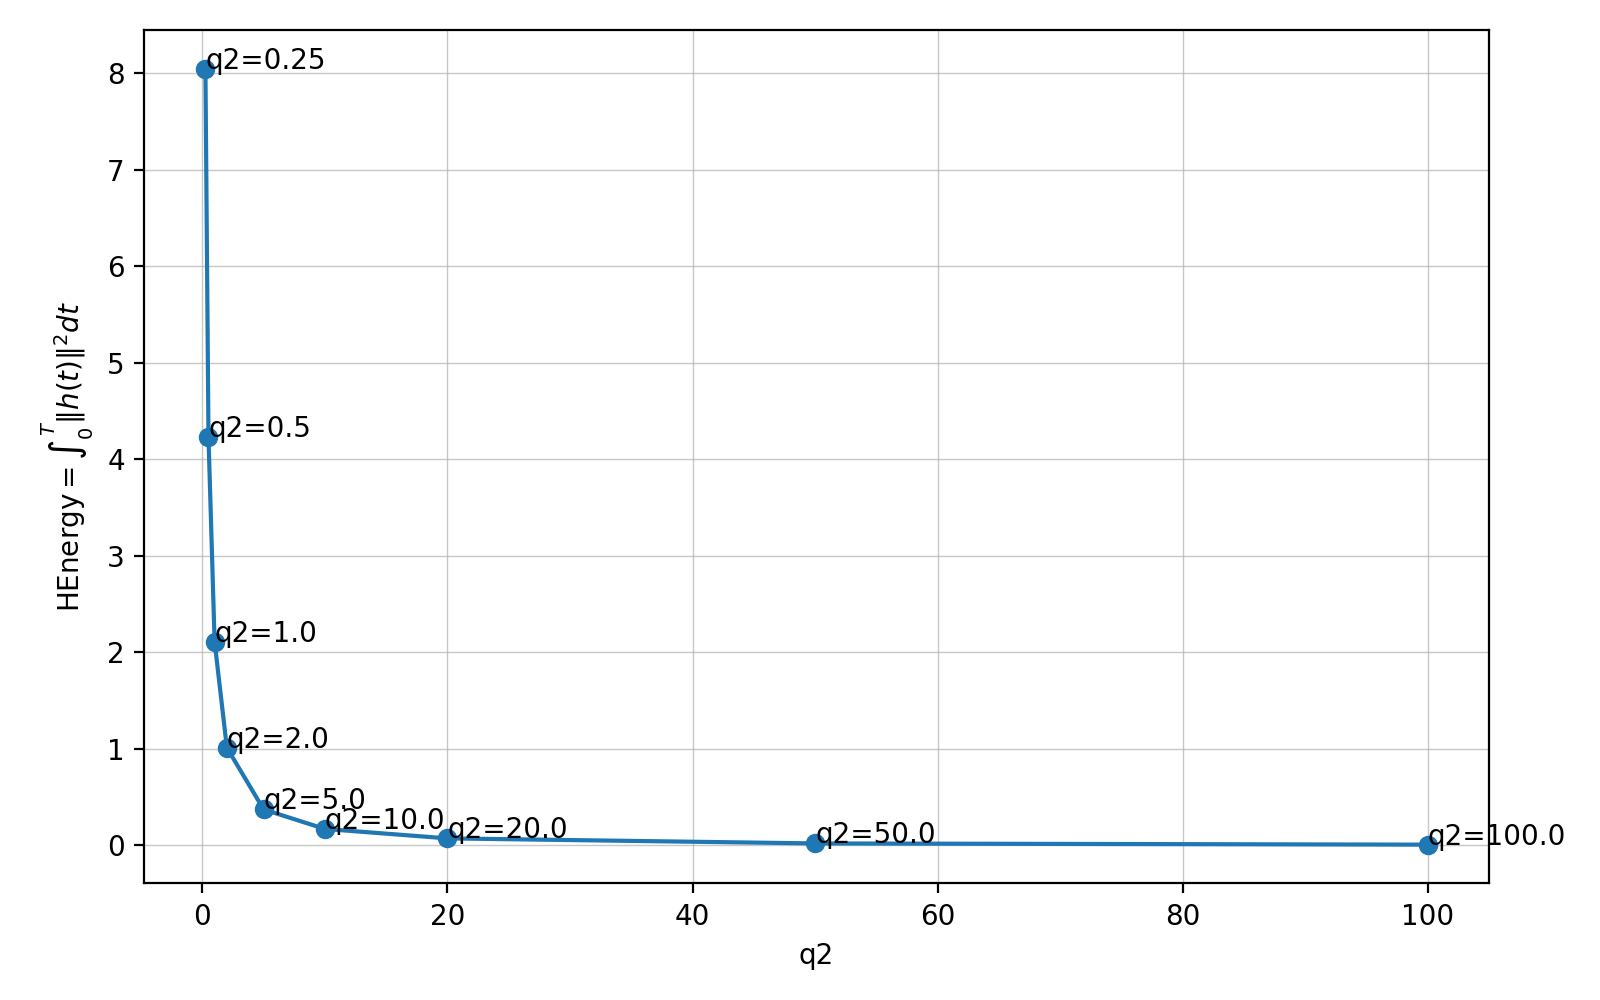
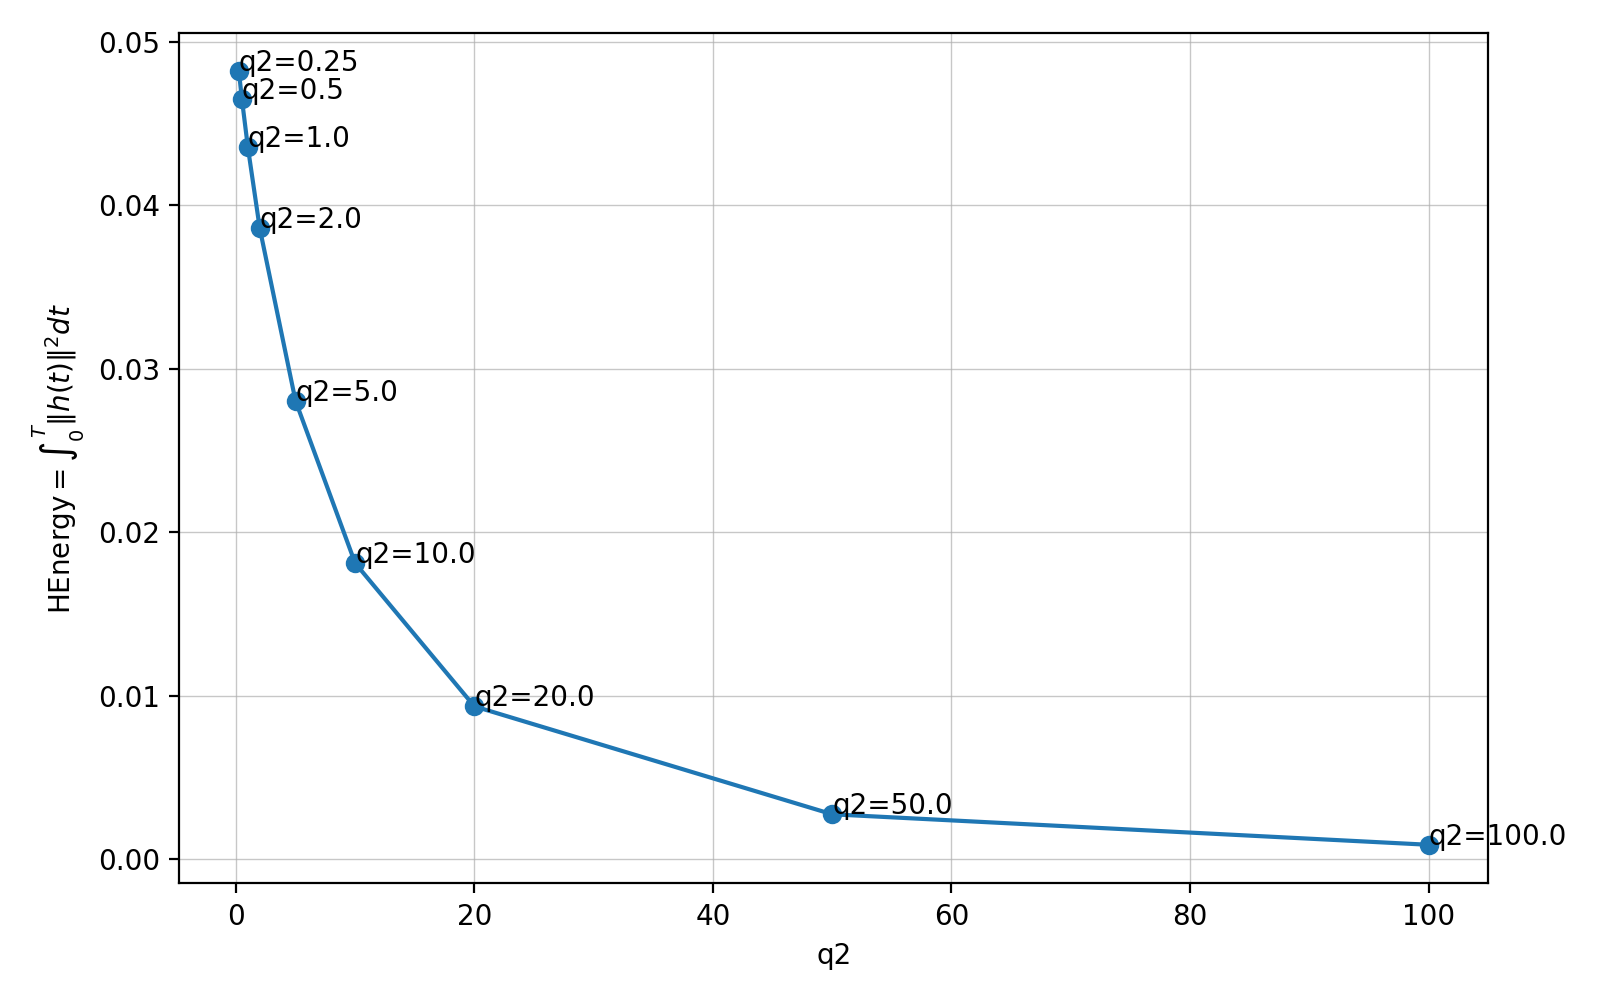
Update for readme

diff --git a/README.md b/README.md
@@ -2,7 +2,7 @@
 
 **But.** 
 
-For given $A\in\mathcal{M}_{n}(\mathbb{R})$, $G_2\in\mathcal{M}_{n}(\mathbb{R})$, $C\in\mathcal{M}_{n}(\mathbb{R})$, and $q_1,q_2>0$ considered ponderations, we want to construct the optimal pair
+For given $A\in\mathcal{M}_n(\mathbb{R})$, $G_2\in\mathcal{M}_n(\mathbb{R})$, $C\in\mathcal{M}_n(\mathbb{R})$, and $q_1,q_2>0$ considered ponderation weights, we want to construct the optimal pair
 ```math
 \begin{aligned}
 h^\star(t) &= -\tfrac{1}{q_2} G_2^\top p(t),\\
@@ -12,7 +12,7 @@ z(0) &= -\tfrac{1}{q_1} p(0)
 where $(z,p)$ is solution of the optimality system  given by the TPBVP:
 ```math
 \begin{aligned}
-z'(t) &= A z(t) + G h^\star(t) = A z(t) - \tfrac{1}{q_2} G G^\top p(t), \quad z(0) = -\tfrac{1}{q_1} s,\\
+z'(t) &= A z(t) + G_2 h^\star(t) = A z(t) - \tfrac{1}{q_2} G_2 G_2^\top p(t), \quad z(0) = -\tfrac{1}{q_1} s,\\
 p'(t) &= -A^\top p(t) - C^\top\!\big(C z(t) - y^{\mathrm m}(t)\big), \quad p(T)=0,
 \end{aligned}
 ```
@@ -22,36 +22,36 @@ and $s := p(0)\in\mathbb{R}^n$ is **the shoot unknown**.
 
 ### Implementation scheme (pseudo-code)
 1. Give input data 
-    - System: A, G2, C
+    - System: A, $G_2$, C
     - Objective: z0, h as known
     - Time discretization: T, N
-    - Regulations: q1, q2
+    - Regulation: q1, q2
 2. Forward z_true and y_m from known z0 and h
-    - Integrate $z'(t) = A z(t) + G2 h(t)$ using RK4 over grid t
-    - Then compute $Y(t) = C z(t)$
-3. Backward p and z from y_m with shooting method on p(0)
+    - Integrate $z'(t) = A z(t) + G_2 h(t)$ using RK4 over grid t
+    - Then compute $y(t) = C z(t)$
+3. Backward p and $z_{est}$ from y_m with shooting method on p(0)
     - Define a function that integrate $(z'(t), p'(t))$ with $z(0) = -s/q1$, $p(T) = 0$ under the shoot $s=p(0)$.
     - Define the shooting function $F(s) := p(T; s)$ and find the good $s^\star$ such that $F(s^\star)=0$ by multiple integrations with $s$.
     - Integrate final (z, p) with the good $s^\star$.
-4. Reconstruction of the irrigation h
-    - $h(t) = -(1/q2) * G2^T p(t)$
+4. Reconstruction of the irrigation $h_{est}$
+    - $h(t) = -(1/q2) * G_2^T p(t)$
     - $z(0) = -(1/q1) * p(0)$
 5. Make plots and metrics
     - Metrics: 
-        - $z_0 - z_0estimated$
-        - $RMSE_z = \sqrt{mean((z_{true} - z_{estimated})^2)}$
-        - $RMSE_h = \sqrt{mean((z_{true} - z_{estimated})^2)}$
+        - $Z0Error = z_0 - z_{0est}$
+        - $RMSE_z = \sqrt{mean((z_{true} - z_{est})^2)}$
+        - $RMSE_h = \sqrt{mean((z_{true} - z_{est})^2)}$
         - $Y Misfit = \int_0^T \|Cz(t)-y^m(t)\|^2 dt$
         - $H Energy = \int_0^T \|h(t)\|^2 dt$
     - Plots:
-        - $z_{true}$ vs $z_{estimated}$
-        - $h_{true}$ vs $h_{estimated}$
-        - $z_{estimated}$ as function of q2
-        - $h_{estimated}$ as function of q2
-        - $RMSE_z$ as function of q2
-        - $RMSE_h$ as function of q2
-        - $Y Misfit$ as function of q2
-        - $H Energy$ as function of q2
+        - $z_{true}$ vs $z_{est}$
+        - $h_{true}$ vs $h_{est}$
+        - $z_{est}$ as function of q1 and/or q2
+        - $h_{est}$ as function of q1 and/or q2
+        - $RMSE_z$ as function of q1 and/or q2
+        - $RMSE_h$ as function of q1 and/or q2
+        - $Y Misfit$ as function of q1 and/or q2
+        - $H Energy$ as function of q1 and/or q2
 
 ---
 
@@ -60,7 +60,7 @@ and $s := p(0)\in\mathbb{R}^n$ is **the shoot unknown**.
 - System: $A=2, G_2=3, C=4.9$
 - Objective: $z_{0true}=4, h_{\mathrm{true}}(t)=t(1 - t)$
 - Time discretization: $T=1, N=200$
-- Regulations: $q_1=1, q_2=1$
+- Regulation: $q_1=0.001, q_2=0.25$
 
 *With $n=2$:*
 - System: $A = \begin{bmatrix}2 & 0 \\[3pt] 0 & 4\end{bmatrix},\;G_2 = \begin{bmatrix}3 & 0 \\ 0 & 2.5\end{bmatrix}$ and $C = \begin{bmatrix}4.9 & 0 \\ 0 & 9\end{bmatrix}$
@@ -69,36 +69,41 @@ h_{1\mathrm{true}}(t) = 0.5\,t(1-t), \;
 h_{2\mathrm{true}}(t) = 1-(t-0.5)^2,
 $
 - Time discretization: $T=1, N=200$
-- Regulations: $q_1=1, q_2=1$
+- Regulation: $q_1=0.001, q_2=0.5$
 
 ---
 
-### Ouput example (metrics)
+### Ouput example
+**Metrics**
 *With $n=1$:* <br>
-z0 true = 4, z0 estimated = 2.617, error = 1.383<br>
-RMSE(z) = 10.881<br>
-RMSE(h) = 1.430<br>
-Y Misfit = 1.466<br>
-h Energy = 2.108
+z0 true = 4, z0 estimated = 4.000, error = 0.000<br>
+RMSE(z) = 0.003<br>
+RMSE(h) = 0.044<br>
+Y Misfit = 0.000<br>
+h Energy = 0.048
 
 *With $n=2$:* <br>
-z0 true = [4 5]', z0 estimated = [ ]', error = 1.634<br>
-RMSE(z) = 0.213<br>
-RMSE(h) = 1.705<br>
-Y Misfit = 3.249<br>
-h Energy = 8.619
+z0 true = [4 5]', z0 estimated = [4.00225004 5.06704223]', error = 0.067<br>
+RMSE(z) = 0.041<br>
+RMSE(h) = 0.962<br>
+Y Misfit = 0.233<br>
+h Energy = 4.477
+
+**Plots**
+
+*With $n=1$:* <br>
+- $h_{true}$ vs $h_{estimated}$ ![$h_{true}$ vs $h_{estimated}$](figs_examples/fig_n1_h_true_vs_h_estimated.png)
+- $z_{true}$ vs $z_{estimated}$ ![$z_{true}$ vs $z_{estimated}$](figs_examples/fig_n1_z_true_vs_z_estimated.png)
+
+*With $n=2$:* <br>
+- $h1_{true}$ vs $h1_{estimated}$ and $h2_{true}$ vs $h2_{estimated}$  
+![$h1_{true}$ vs $h1_{estimated}$](figs_examples/fig_n2_h1_true_vs_h1_estimated.png) ![$h2_{true}$ vs $h2_{estimated}$](figs_examples/fig_n2_h2_true_vs_h2_estimated.png)
+- $z1_{true}$ vs $z1_{estimated}$ and $z2_{true}$ vs $z2_{estimated}$  
+![$z1_{true}$ vs $z1_{estimated}$](figs_examples/fig_n2_z1_true_vs_z1_estimated.png) ![$z2_{true}$ vs $z2_{estimated}$](figs_examples/fig_n2_z2_true_vs_z2_estimated.png)
 
 ---
 
 ### Files use
-The files [simulation_n1.ipynb](simulation_n1.ipynb) and [simulation_n2.ipynb](simulation_n2.ipynb) are Jupyter notebooks that allow step-by-step execution of the script with direct display of the results, while the files [simulation_n1.py](simulation_n1.py) and [simulation_n2.py](simulation_n2.py) allow one-shot execution with final display of the results in the console. The generated figures are saved in the subfolder \verb|figs| in both execution modes. We note that the two-dimensional case can easily be extended to $n>2$
+The files [simulation_n1.ipynb](simulation_n1.ipynb) and [simulation_n2.ipynb](simulation_n2.ipynb) are Jupyter notebooks that allow step-by-step execution of the script with direct display of the results, while the files [simulation_n1.py](simulation_n1.py) and [simulation_n2.py](simulation_n2.py) allow one-shot execution with final display of the results in the console. The generated figures are saved in the subfolder \verb|figs| in both execution modes. We note that the two-dimensional case can easily be extended to $n>2$.
 
 ---
-
-### Remark (valable for all $n$)
-- **Coût.** On intègre **$n+1$** fois un système de taille **$2n$** (une fois pour $\Beta$, $n$ fois pour les colonnes de $\Alpha$). C’est raisonnable et **trivialement parallélisable** (les $n$ tirs $e_i$ sont indépendants).
-- **Conditionnement.** Si $\Alpha$ est mal conditionnée, résoudre $\Alpha s^\star=-\Beta$ en **moindres carrés** (\`np.linalg.lstsq\`) est robuste (cas $q_2$ très grands, observabilité faible, etc.).
-- **Cas $m\neq n$.** $G$ peut avoir $m$ colonnes (plusieurs commandes) : la formule $h^\star = -\tfrac{1}{q_2}G^\top p$ et la dynamique $A - \tfrac{1}{q_2}GG^\top$ restent valides.
-- **Observations partielles.** $C$ peut être **rectangulaire** ($p\times n$) ; pas besoin que $C=I$.
-- **Paramètres variables en temps.** Si $A,G,C$ dépendent de $t$, on remplace $M$ et $b(t)$ par leurs versions **dépendantes du temps** dans l’intégrateur (même schéma).
-- **Contraintes ou pénalisations supplémentaires.** Bornes sur $h$, pondérations temporelles, régularisations additionnelles : soit via une **projection** a posteriori, soit en adaptant le **fonctionnel** (tout en conservant un problème quadratique si possible).
